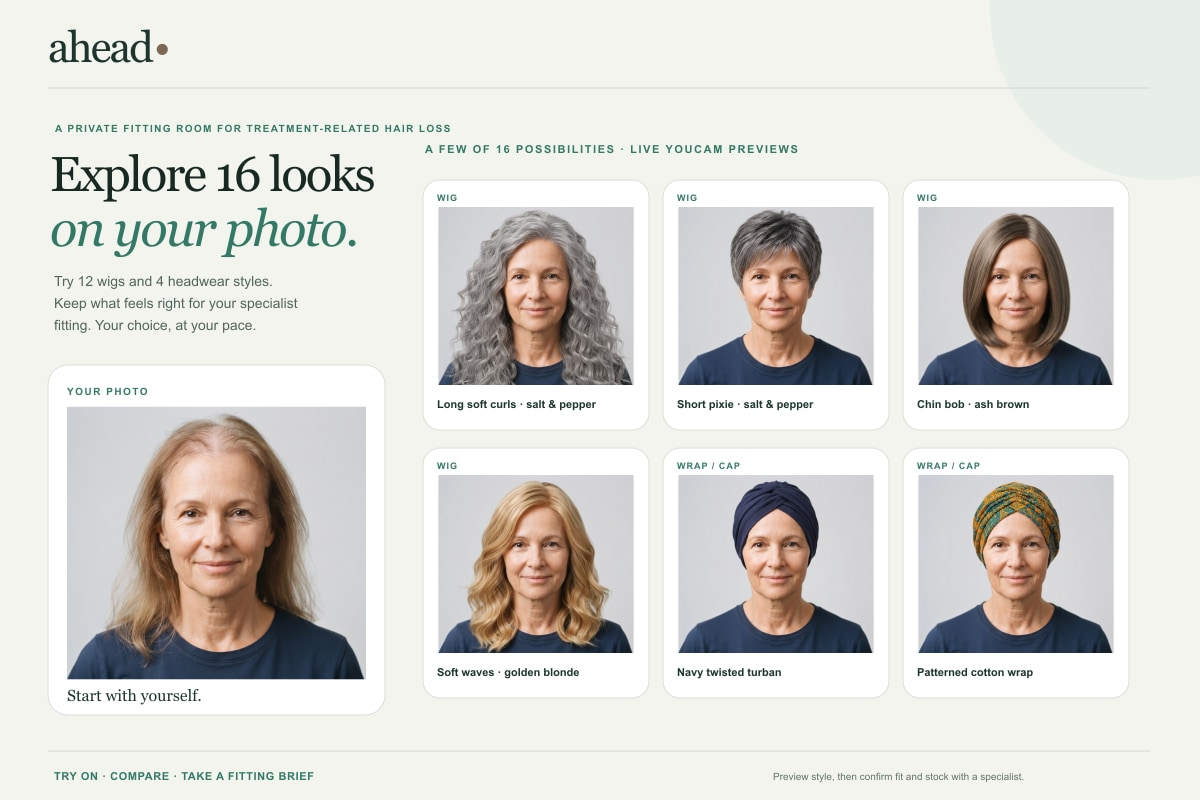
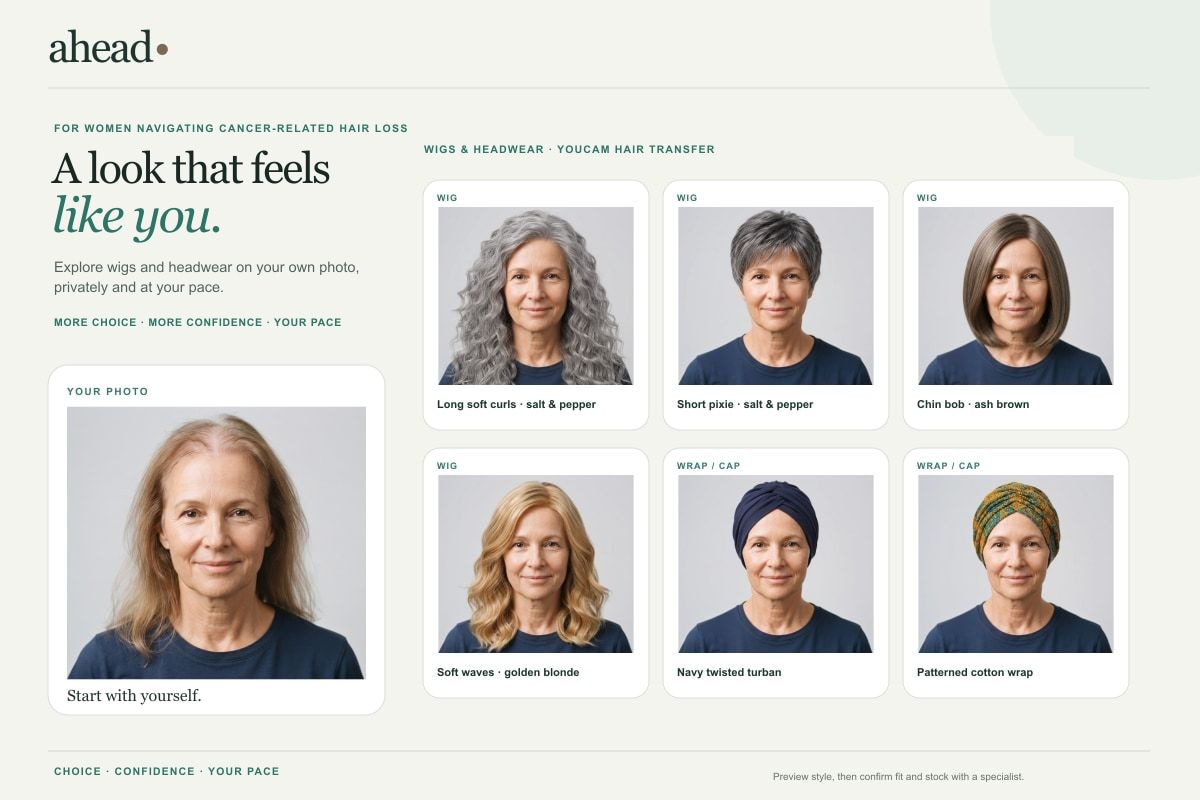
Position Ahead around confidence during hair loss

Changed region(s): [[0.0308, 0.1562, 0.6475, 0.4375], [0.0308, 0.9375, 0.2467, 1.0]]

diff --git a/README.md b/README.md
@@ -52,7 +52,7 @@ This gallery shows the **16 successful YouCam Hair Transfer previews** on the sa
 
 ![Sixteen distinct YouCam Hair Transfer style previews on the same thinning-hair portrait, with four options per row](docs/images/sixteen-style-gallery.jpg)
 
-The [Devpost project thumbnail](docs/images/devpost-thumbnail.jpg) shows the starting portrait alongside six representative options. The full fitting room lets someone explore all 16, compare favourites, and take a brief to a specialist.
+The [Devpost thumbnail](docs/images/devpost-thumbnail.jpg) positions Ahead as a private, confidence-building wig and headwear space for women navigating cancer-related hair loss, with six representative YouCam previews.
 
 Individual preview files and their style mapping are in [`docs/images/variants/`](docs/images/variants/) and its [render manifest](docs/images/variants/manifest.json). The `AHD-*` codes are Ahead reference codes, not retailer SKUs.
 
